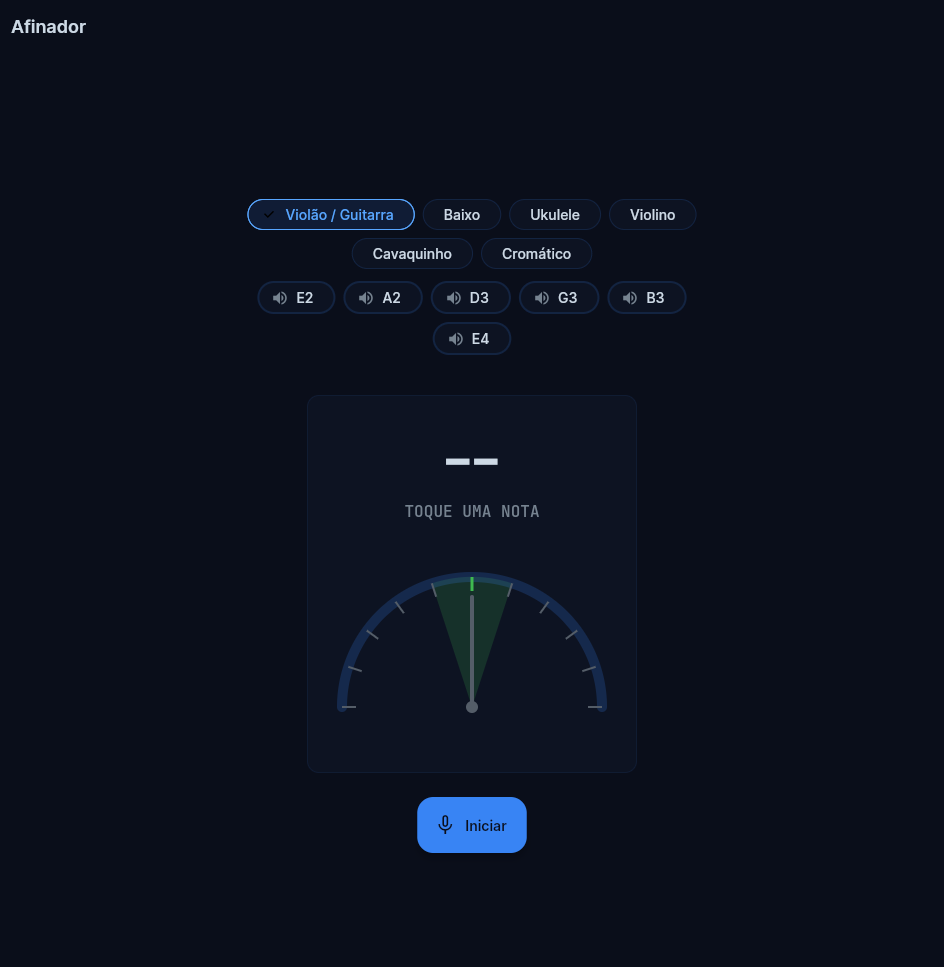
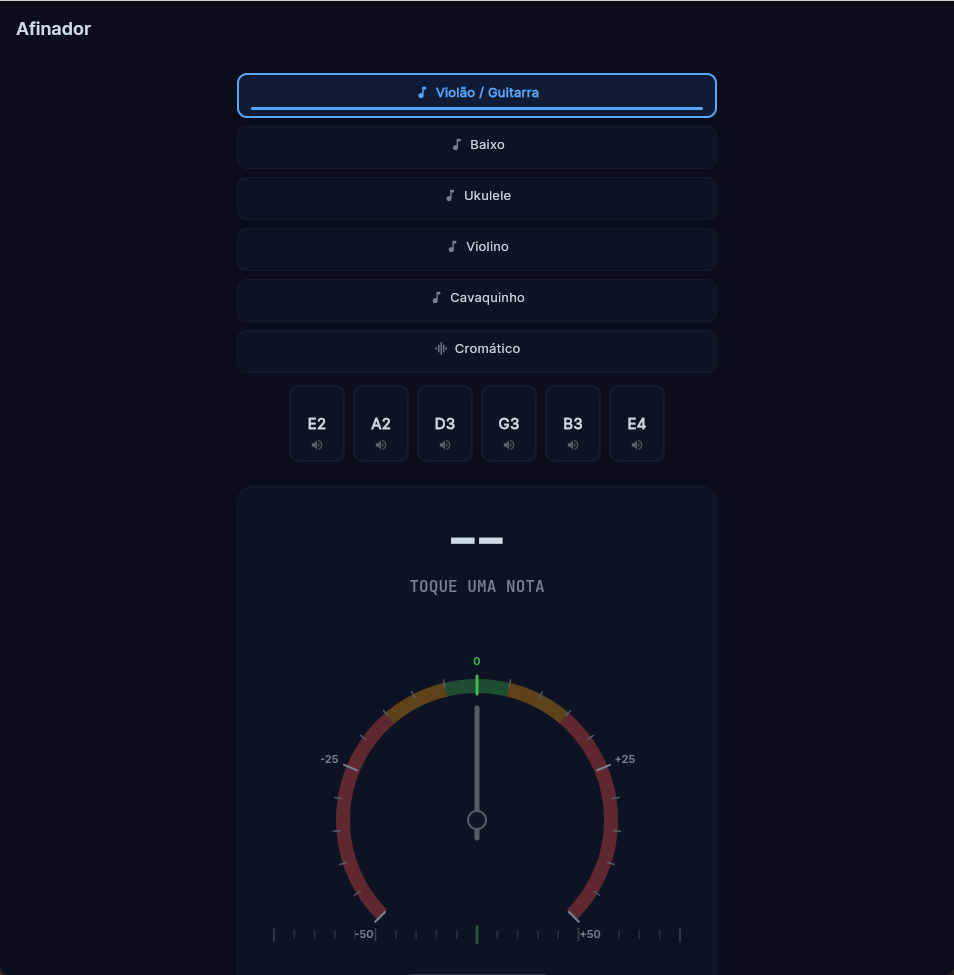
Atualiza README e screenshot para o redesign do afinador
- Screenshot substituída para refletir o novo mostrador de 270°, cordas
  em cartões e seletor de instrumento com abas.
- Funcionalidades atualizadas: mostrador tipo relógio + régua de cents,
  cordas com seta de direção, som de referência sintetizado e leitura
  estabilizada por confiança/intensidade do sinal.
- Instrução de uso ajustada: o botão de captura não tem mais o rótulo
  "Iniciar" (agora é só o ícone de microfone, com legenda ao lado).

Claude-Session: https://claude.ai/code/session_01LRq2mVKQPFGWHHwGRQRh6E

diff --git a/README.md b/README.md
@@ -11,10 +11,15 @@ e um modo cromático (qualquer nota).
 
 ## Funcionalidades
 
-- Detecção de pitch em tempo real (algoritmo YIN) a partir do microfone.
+- Detecção de pitch em tempo real (algoritmo YIN) a partir do microfone,
+  com leitura estabilizada por confiança/intensidade do sinal (evita
+  variar muito enquanto a nota decai).
 - Presets: Violão/Guitarra, Baixo, Ukulele, Violino, Cavaquinho e Cromático.
-- Ponteiro visual com desvio em cents e indicação de "Afinado!".
-- Destaque automático da corda mais próxima da nota detectada.
+- Mostrador tipo relógio (270°) com faixas coloridas, ticks numerados e
+  régua de cents auxiliar, indicando o desvio em tempo real.
+- Cordas do instrumento como cartões com seta de direção (ou check ao
+  afinar) e destaque automático da corda mais próxima da nota detectada.
+- Som de referência de cada corda (síntese de dedilhado, sem samples).
 
 ## Arquitetura
 
@@ -75,8 +80,8 @@ flutter run -d macos     # macOS desktop
 flutter run              # deixa escolher entre os conectados (Android/iOS)
 ```
 
-Ao abrir o app, escolha o instrumento desejado e toque em **Iniciar**
-para conceder a permissão de microfone e começar a afinação.
+Ao abrir o app, escolha o instrumento desejado e toque no botão de
+microfone para conceder a permissão de microfone e começar a afinação.
 
 ### Permissões de microfone
 
